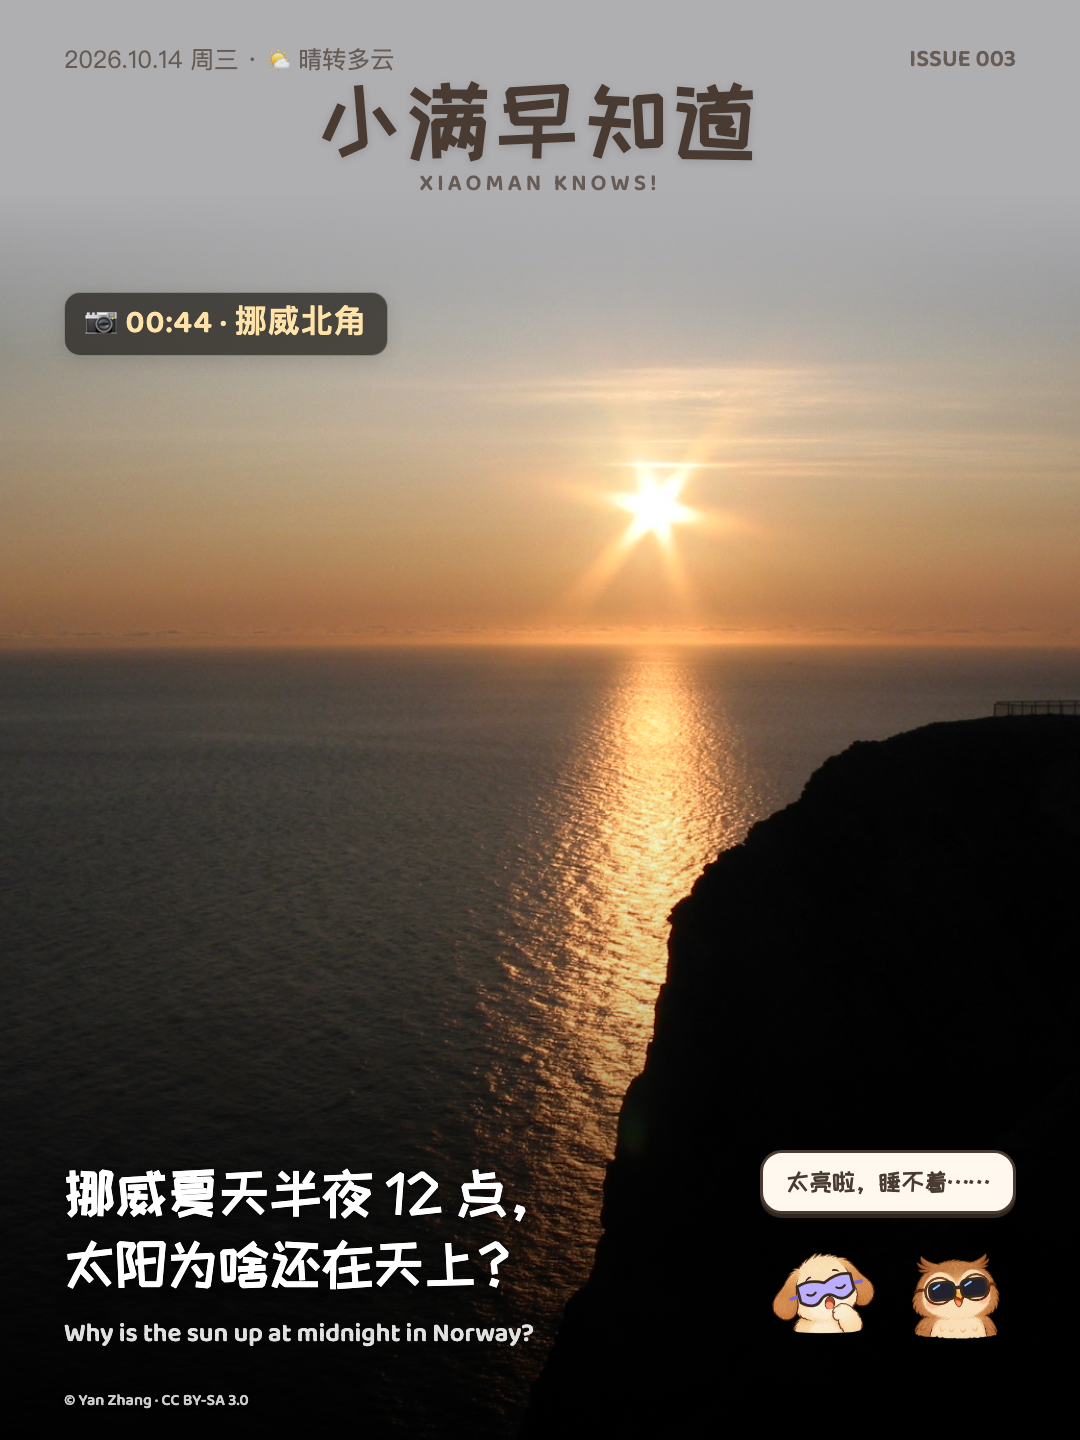
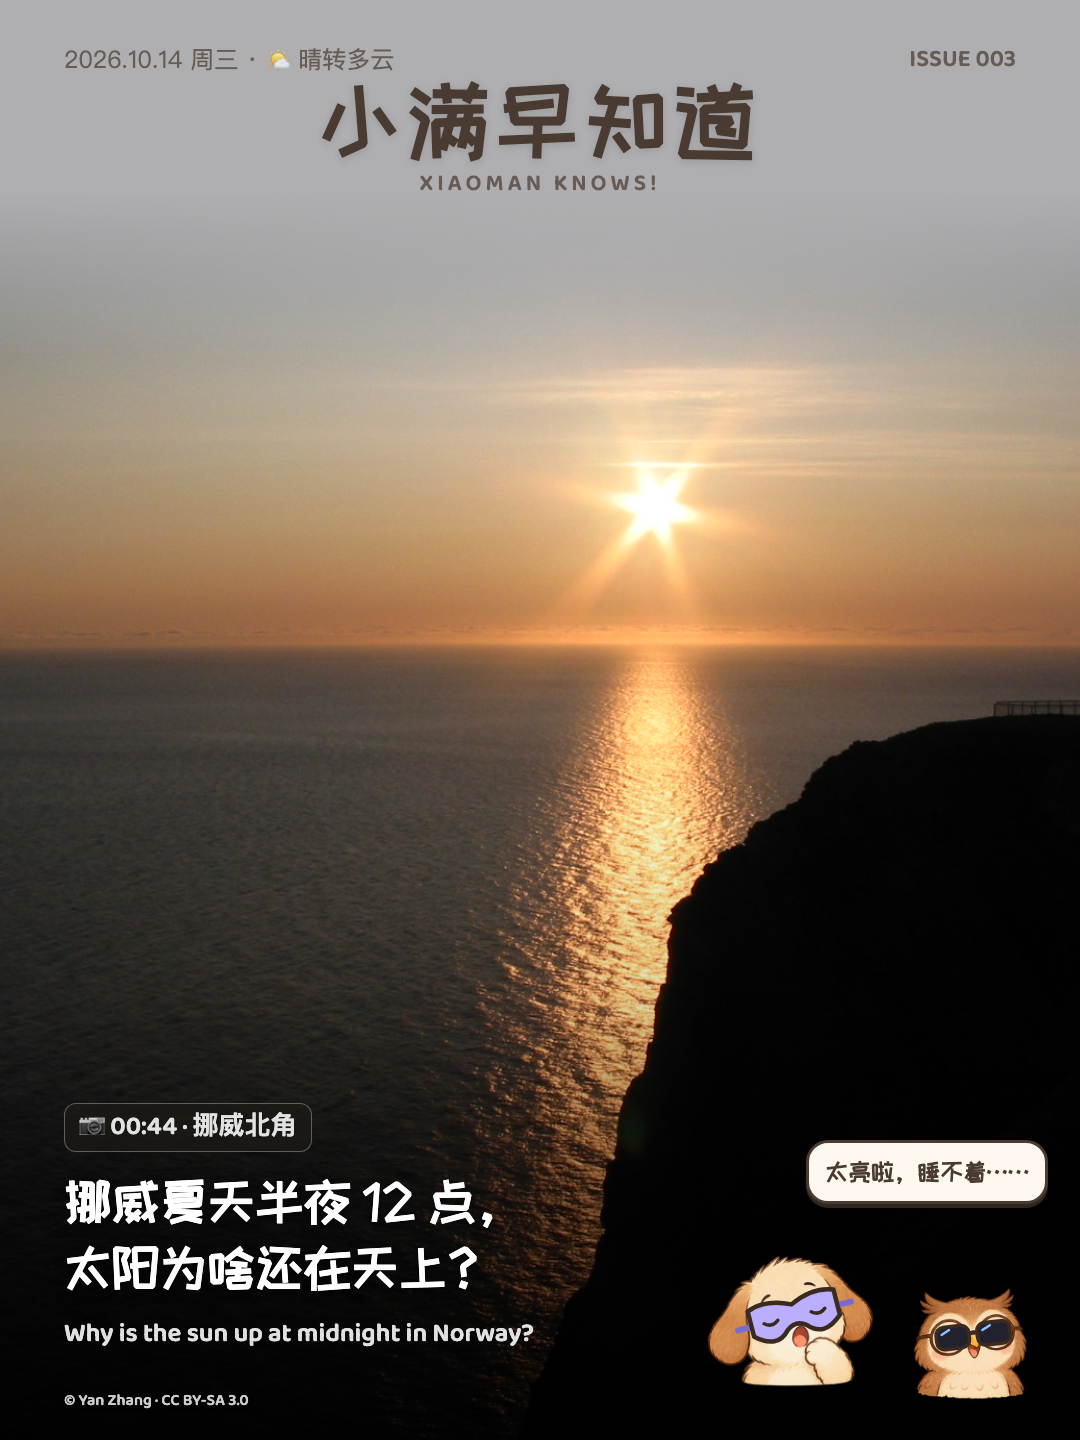
fix(cover): restore character scale and keep evidence beside the question

Changed region(s): [[0.0611, 0.75, 0.4889, 0.9062], [0.6417, 0.7812, 0.9778, 0.9688], [0.0611, 0.1875, 0.3667, 0.25]]

diff --git a/assets/style.css b/assets/style.css
@@ -314,19 +314,20 @@ svg.ch{display:block}
 #c1.photo-cover .mast .en{font-size:23px;letter-spacing:4px;margin-top:0;color:var(--mast-sub)}
 #c1.photo-cover,#c1.photo-cover.light{--mast-ink:var(--ink);--mast-sub:rgba(74,59,50,.72);--mast-shadow:rgba(255,255,255,.65)}
 #c1.photo-cover.dark{--mast-ink:#fff;--mast-sub:rgba(255,255,255,.88);--mast-shadow:var(--ink)}
-#c1.photo-cover .cover-evidence{position:absolute;left:64px;top:292px;max-width:calc(100% - 128px)}
-#c1.photo-cover .stamp{display:inline-block;padding:12px 20px;border:1px solid rgba(255,255,255,.35);border-radius:16px;background:rgba(30,27,23,.7);color:#FFE3A8;font-size:32px;line-height:1.2;letter-spacing:1px;box-shadow:0 4px 18px rgba(0,0,0,.12)}
-#c1.photo-cover .cover-bottom{position:absolute;left:64px;right:64px;bottom:88px;display:grid;grid-template-columns:minmax(0,1fr);align-items:end;gap:28px}
-#c1.photo-cover .cover-bottom.has-crew{grid-template-columns:minmax(0,1fr) 256px}
-#c1.photo-cover .q{margin:0;padding:0;min-width:0}
-#c1.photo-cover .q .asked{display:inline-block;font-size:23px;color:#FFE3A8;margin-bottom:14px}
-#c1.photo-cover .q .t{font-size:56px;line-height:1.28;text-shadow:0 2px 12px rgba(0,0,0,.6);text-wrap:pretty}
+#c1.photo-cover .cover-bottom{position:absolute;left:64px;right:32px;bottom:24px;display:grid;grid-template-columns:minmax(0,1fr);align-items:end;gap:24px}
+#c1.photo-cover .cover-bottom.has-crew{grid-template-columns:minmax(0,1fr) max-content}
+#c1.photo-cover .q{margin:0;padding:0 0 64px;min-width:0}
+#c1.photo-cover .cover-labels{display:flex;flex-wrap:wrap;align-items:flex-start;gap:12px;margin-bottom:16px}
+#c1.photo-cover .cover-labels:empty{display:none}
+#c1.photo-cover .stamp{display:inline-block;padding:6px 14px;border:1px solid rgba(255,255,255,.35);border-radius:12px;background:rgba(30,27,23,.7);color:#FFE3A8;font-size:28px;line-height:1.3}
+#c1.photo-cover .q .asked{display:inline-block;padding:6px 14px;border-radius:12px;background:#FFE8A6;color:var(--ink);font-size:28px;line-height:1.3;box-shadow:0 3px 0 rgba(74,59,50,.4)}
+#c1.photo-cover .q .t{font-size:52px;line-height:1.28;text-shadow:0 2px 12px rgba(0,0,0,.6)}
+#c1.photo-cover .cover-word{display:inline-block;white-space:nowrap}
 #c1.photo-cover .q .en{font-size:26px;line-height:1.35;color:#fff;opacity:.88;margin-top:16px}
-#c1.photo-cover .crew{display:flex;flex-direction:column;align-items:center;gap:14px;min-width:0}
-#c1.photo-cover .crew .chs{display:flex;align-items:flex-end;justify-content:center;gap:8px;width:100%}
-#c1.photo-cover .crew .ch{width:124px;height:124px;flex-shrink:0}
-#c1.photo-cover .crew .ch:only-child{width:170px;height:170px}
-#c1.photo-cover .crew .bub{color:var(--ink);text-shadow:none;width:100%;margin:0;font-size:25px;line-height:1.35;padding:12px 16px;border-width:3px;border-radius:22px;background:#FFF8EE;text-align:center;white-space:normal;text-wrap:balance;box-shadow:0 4px 0 rgba(74,59,50,.65)}
+#c1.photo-cover .crew{display:flex;flex-direction:column;align-items:flex-end;gap:12px;min-width:0}
+#c1.photo-cover .crew .chs{display:flex;align-items:flex-end;justify-content:flex-end;gap:0;width:max-content}
+#c1.photo-cover .crew .ch{flex-shrink:0}
+#c1.photo-cover .crew .bub{color:var(--ink);text-shadow:none;width:max-content;margin:0;font-size:25px;line-height:1.35;padding:12px 16px;border-width:3px;border-radius:22px;background:#FFF8EE;text-align:center;white-space:nowrap;box-shadow:0 4px 0 rgba(74,59,50,.65)}
 #c1.photo-cover .crew .bub:after{display:none}
 #c1.photo-cover .credit{position:absolute;left:64px;right:64px;bottom:28px;margin:0;font-size:16px;line-height:1.3;color:rgba(255,255,255,.8);text-shadow:0 1px 4px #000}
 

diff --git a/docs/cover-comparison.html b/docs/cover-comparison.html
@@ -1,1 +1,1 @@
-<!doctype html><html lang="zh"><meta charset="utf-8"><meta name="viewport" content="width=device-width,initial-scale=1"><title>封面排版 · 前后对比</title><style>body{margin:0;padding:28px;background:#f5f1e9;color:#4a3b32;font:16px "PingFang SC",sans-serif}h1{font-size:26px;margin:0 0 8px}p{margin:0 0 22px;color:#826e60}.grid{display:grid;grid-template-columns:1fr 1fr;gap:24px;max-width:1400px}figure{margin:0}figcaption{font-weight:600;margin-bottom:12px}img{display:block;width:100%;border-radius:12px;box-shadow:0 6px 24px #4a3b3220}button{font:inherit;border:1px solid #a18b79;border-radius:8px;padding:6px 12px;background:white;color:inherit;cursor:pointer;margin-left:10px}a{color:inherit}</style><h1>小满早知道 · 封面排版对比</h1><p>时间线索提前，问题与角色分栏，人物和署名保留安全距离。照片与正文内容相同。</p><div class="grid"><figure><figcaption>调整前</figcaption><img src="cover-before.png" alt="调整前的封面"></figure><figure><figcaption>调整后<button onclick="const p=this.dataset.png!=='yes';document.getElementById('after').src=p?'cover-after-png.png':'cover-after-svg.png';this.dataset.png=p?'yes':'no';this.textContent=p?'切换为 SVG 角色':'切换为 PNG 角色'">切换为 PNG 角色</button></figcaption><img id="after" src="cover-after-svg.png" alt="调整后的封面"></figure></div></html>
+<!doctype html><html lang="zh"><meta charset="utf-8"><meta name="viewport" content="width=device-width,initial-scale=1"><title>封面排版 · 前后对比</title><style>body{margin:0;padding:28px;background:#f5f1e9;color:#4a3b32;font:16px "PingFang SC",sans-serif}h1{font-size:26px;margin:0 0 8px}p{margin:0 0 22px;color:#826e60}.grid{display:grid;grid-template-columns:1fr 1fr;gap:24px;max-width:1400px}figure{margin:0}figcaption{font-weight:600;margin-bottom:12px;min-height:38px;display:flex;align-items:center}img{display:block;width:100%;border-radius:12px;box-shadow:0 6px 24px #4a3b3220}button{font:inherit;border:1px solid #a18b79;border-radius:8px;padding:6px 12px;background:white;color:inherit;cursor:pointer;margin-left:10px}a{color:inherit}</style><h1>小满早知道 · 封面排版对比</h1><p>证据标签紧邻问题，角色按 spec 放大靠底，问题与角色分栏。照片与正文内容相同。</p><div class="grid"><figure><figcaption>调整前</figcaption><img src="cover-before.png" alt="调整前的封面"></figure><figure><figcaption>调整后<button onclick="const p=this.dataset.png!=='yes';document.getElementById('after').src=p?'cover-after-png.png':'cover-after-svg.png';this.dataset.png=p?'yes':'no';this.textContent=p?'切换为 SVG 角色':'切换为 PNG 角色'">切换为 PNG 角色</button></figcaption><img id="after" src="cover-after-svg.png" alt="调整后的封面"></figure></div></html>

diff --git a/assets/template.html b/assets/template.html
@@ -33,15 +33,25 @@ const cards = [];
 
 // 1 封面：有 cover.photo 用照片封面，否则用角色封面
 // 照片封面：顶部刊名条 + 下方照片。刊名条的颜色取自照片顶部（见文末 coverStrip），照片顶端渐隐进刊名条
+// Keep Chinese words and number/unit phrases together while respecting editorial <br> breaks.
+const coverSegmenter = new Intl.Segmenter("zh", { granularity: "word" });
+const coverNumberUnit = /((?:\d+(?:\.\d+)?|[零〇一二两三四五六七八九十百千万亿]+)\s*(?:公斤|千克|千米|公里|厘米|毫米|小时|分钟|点半|点|吨|米|度|岁|天|秒|年|月|日|个))/g;
+const coverQuestion = text => String(text).split(/<br\s*\/?>/i).map(line => {
+  const words = [];
+  line.split(coverNumberUnit).flatMap((part, i) => i % 2 ? [part] : [...coverSegmenter.segment(part)].map(x => x.segment)).forEach(word => {
+    if (/^[，。！？、：；,.!?…）】》]+$/.test(word) && words.length) words[words.length - 1] += word;
+    else words.push(word);
+  });
+  return words.map(word => /^\s+$/.test(word) ? word : `<span class="cover-word">${word.replaceAll("&", "&amp;").replaceAll("<", "&lt;").replaceAll(">", "&gt;")}</span>`).join("");
+}).join("<br>");
 const CV = D.cover;
 if (CV && CV.photo) cards.push(`<section class="card photo-cover" id="c1"${CV.strip ? ` style="--strip:${CV.strip}"` : ""}>
   <div class="photo" style="background-image:url('${CV.photo}');background-position:${CV.photo_pos || "center"}"></div><div class="shade"></div>
   <div class="top"><span>${D.date} · ${D.weather}</span><span class="en">ISSUE ${N}</span></div>
   <div class="mast"><div class="zh fun">${D.masthead.zh}</div><div class="en">${D.masthead.en}</div></div>
-  ${CV.stamp ? `<div class="cover-evidence"><span class="stamp en">${CV.stamp}</span></div>` : ""}
   <div class="cover-bottom${CV.crew?.length ? " has-crew" : ""}">
-    <div class="q">${CV.asked_by ? `<div class="asked fun">本期问题由${CV.asked_by}提出</div>` : ""}
-      <div class="t fun">${D.question.zh}</div><div class="en">${D.question.en}</div></div>
+    <div class="q"><div class="cover-labels">${CV.stamp ? `<span class="stamp en">${CV.stamp}</span>` : ""}${CV.asked_by ? `<span class="asked fun">💡 本期问题由${CV.asked_by}提出</span>` : ""}</div>
+      <div class="t fun">${coverQuestion(D.question.zh)}</div><div class="en">${D.question.en}</div></div>
     ${CV.crew?.length ? `<div class="crew">${CV.crew_say ? `<div class="bub fun">${CV.crew_say}</div>` : ""}<div class="chs">${CV.crew.map(ch).join("")}</div></div>` : ""}
   </div>
   <div class="credit en">${CV.credit}</div></section>`);

diff --git a/pipeline/stages/10-cover.md b/pipeline/stages/10-cover.md
@@ -31,9 +31,9 @@
 - 照片一眼看懂、自带悬念。优先 Wikimedia Commons、NASA 等自由授权图库；数学、艺术题材用实物特写
 - 版式：顶部是刊名条，照片从刊名条下方开始、顶端渐隐进去；问题压在照片左下，角色在右下。所以照片的**主体要落在中上部**，下方留给文字。用 `photo_pos` 调裁切（如 `"center 0%"` 显示照片最上面），塔顶、动物的眼睛这类关键部位要完整露出
 - 刊名条颜色自动取照片顶部的颜色；取出来不好看时用 `strip` 指定（CSS 颜色，如 `"#F6E7C8"`），否则留空
-- 问题 ≤ 24 字，太长可以用 `<br>` 在逗号后断成两行
-- `stamp` 只写核实过的信息（拍摄时间、地点），≤ 14 字
-- `crew` 最多 2 个编辑部成员，表情和道具跟主题挂钩（写法见 SKILL.md「编辑部角色」）；`crew_say` ≤ 12 字
-- 孩子提的问题被采用时，`asked_by` 写孩子的称呼，封面会显示"本期问题由 XX 提出"
+- 问题 ≤ 24 字，太长可以用 `<br>` 在完整词组之间断行；数字和单位（如“十二点”“12 点”“2 吨”）不要拆开
+- `stamp` 放在问题上方，和问题放在一起作为照片证据；只写核实过的信息（拍摄时间、地点），≤ 14 字，不占照片中上部主体的位置
+- `crew` 最多 2 个编辑部成员，表情和道具跟主题挂钩（写法见 SKILL.md「编辑部角色」）；成员按 spec 中的 150–200px 尺寸显示并靠近底边，角色列宽自适应；`crew_say` ≤ 12 字、单行显示
+- 孩子提的问题被采用时，`asked_by` 写孩子的称呼，封面会用 💡 图标和奶油黄底色醒目显示"本期问题由 XX 提出"
 
 **自检**：答案能在 `sources` 里查到；照片协议允许使用；问题 ≤ 24 字；渲染后看一眼封面，主体没被刊名、问题、角色挡住
